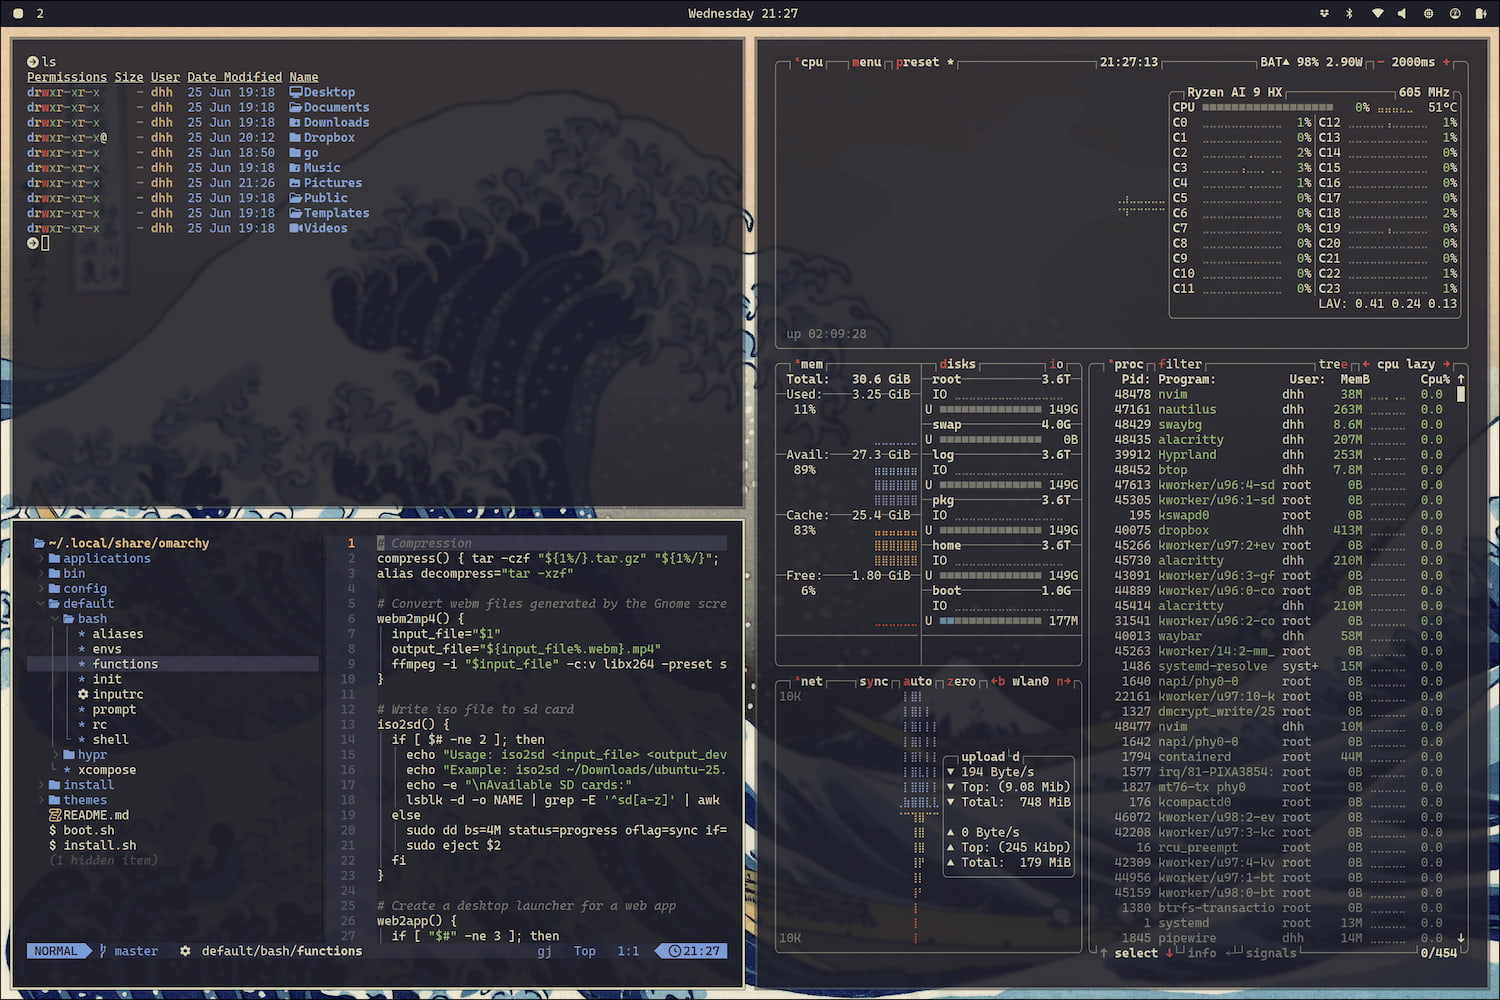
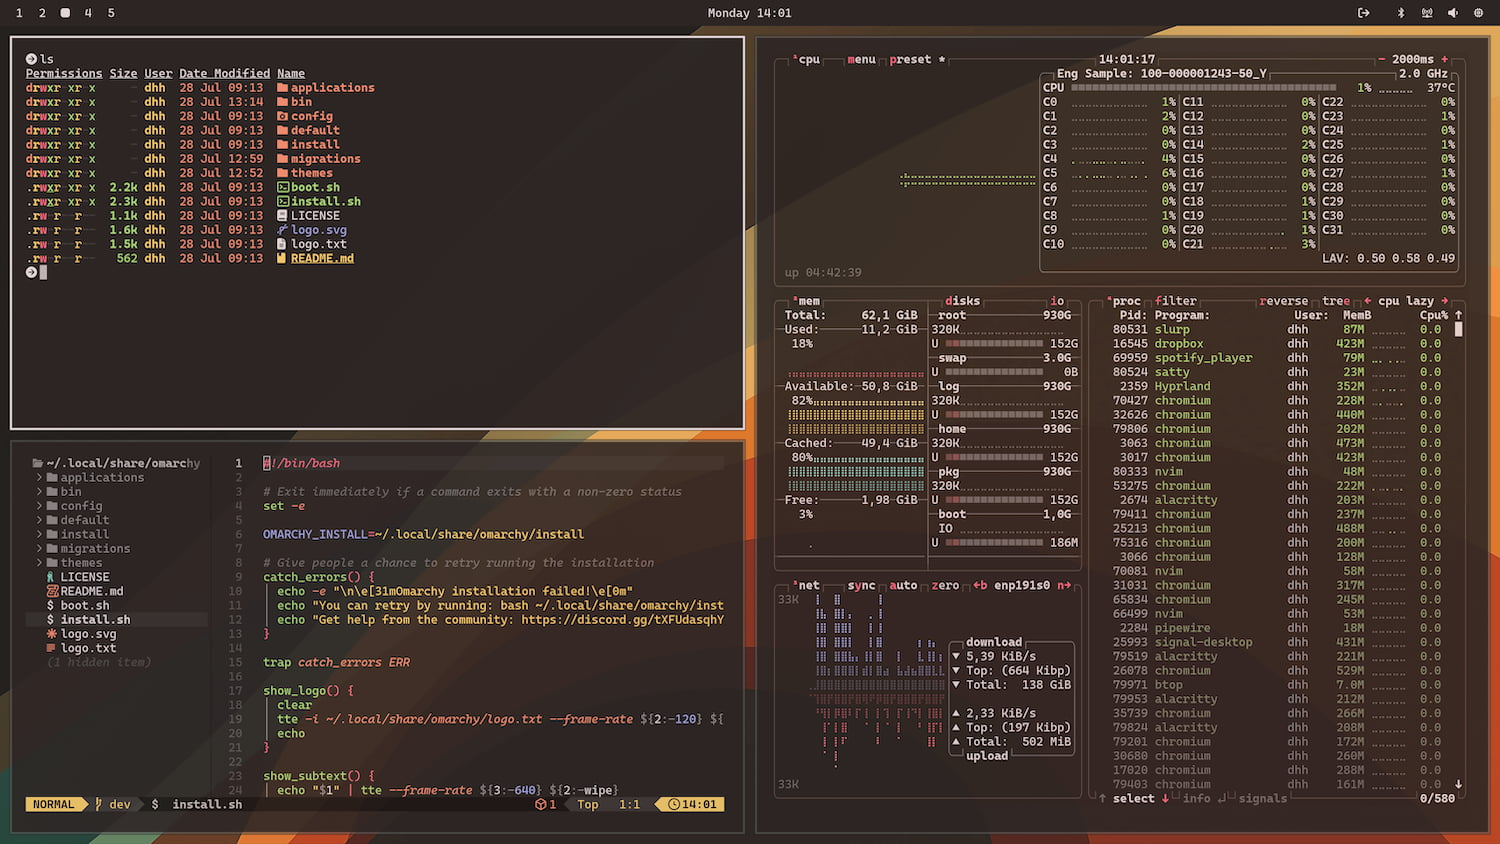
Changed base theme to Ristretto

diff --git a/walker.css b/walker.css
@@ -1,6 +1,6 @@
-@define-color selected-text #dca561;
-@define-color text #dcd7ba;
-@define-color base #1f1f28;
-@define-color border #dcd7ba;
-@define-color foreground #dcd7ba;
-@define-color background #1f1f28;
+@define-color selected-text #fabd2f;
+@define-color text #e6d9db;
+@define-color base #2c2525;
+@define-color border #e6d9db;
+@define-color foreground #e6d9db;
+@define-color background #2c2525;

diff --git a/swayosd.css b/swayosd.css
@@ -1,6 +1,5 @@
-@define-color background-color #1f1f28;
-@define-color border-color #dcd7ba;
-@define-color label #dcd7ba;
-@define-color image #dcd7ba;
-@define-color progress #dcd7ba;
-
+@define-color background-color #2c2525;
+@define-color border-color #c3b7b8;
+@define-color label #c3b7b8;
+@define-color image #c3b7b8;
+@define-color progress #c3b7b8;

diff --git a/waybar.css b/waybar.css
@@ -1,2 +1,2 @@
-@define-color foreground #dcd7ba;
-@define-color background #1f1f28;
+@define-color foreground #e6d9db;
+@define-color background #2c2525;
